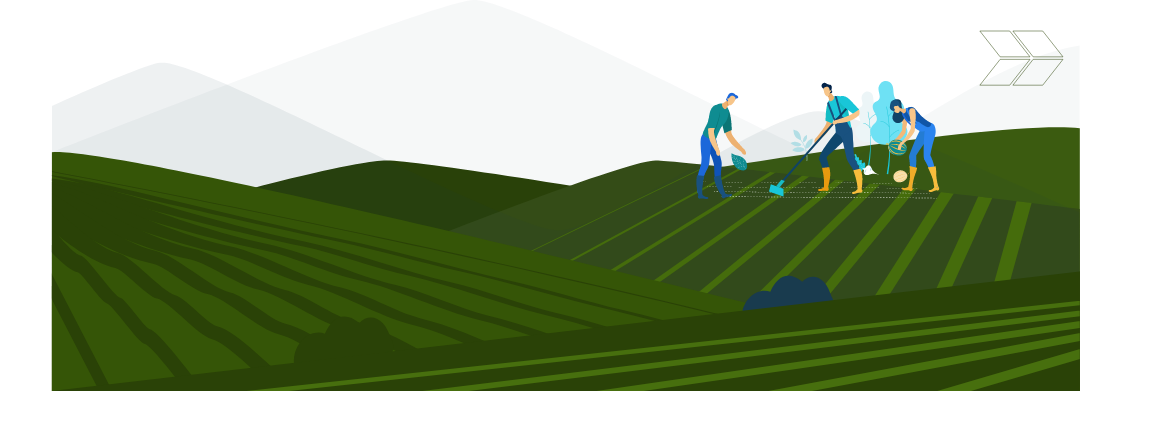
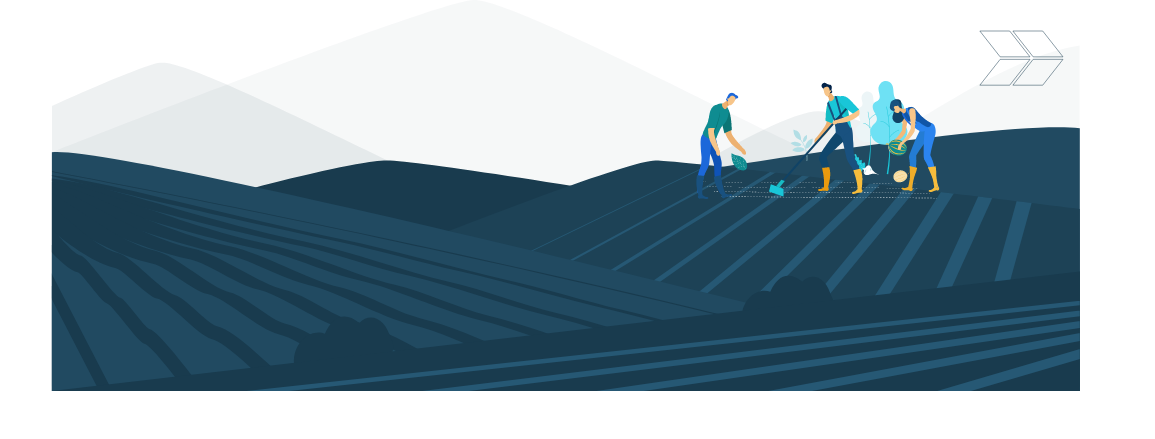
criando a pagina ProducerIndication.

diff --git a/src/pages/ProducerIndication/styles.ts b/src/pages/ProducerIndication/styles.ts
@@ -14,7 +14,7 @@ export const Footer = styled.div`
 
 export const Container = styled.div`
   max-width: 1027px;
-  margin: 75px auto;
+  margin: 40px auto;
 
   .nominated .participants-info {
     margin-left: 50px;
@@ -23,14 +23,14 @@ export const Container = styled.div`
   .nominated .participants-info h3{
     font-size: 18px;
     font-family: 'Helvetica Neue', sans-serif;
-    color: #2a4207;
+    color: #193B4E;
     margin-bottom: 8px;
   }
 
   .nominated .participants-info h4 {
     font-size: 16px;
     font-family: 'Helvetica Neue', sans-serif;
-    color: #2a4207;
+    color: #193B4E;
     margin-bottom: 20px;
   }
 
@@ -42,17 +42,17 @@ export const Container = styled.div`
 
       th {
         height: 29px;
-        padding: 10px;
+        padding: 0 25px;
       }
 
       td {
         height: 29px;
-        padding: 10px;
+        padding: 0 25px;
       }
 
       thead {
         text-align: left;
-        background: #2a4207;
+        background: #193B4E;
         color: #fff;
       }
 
